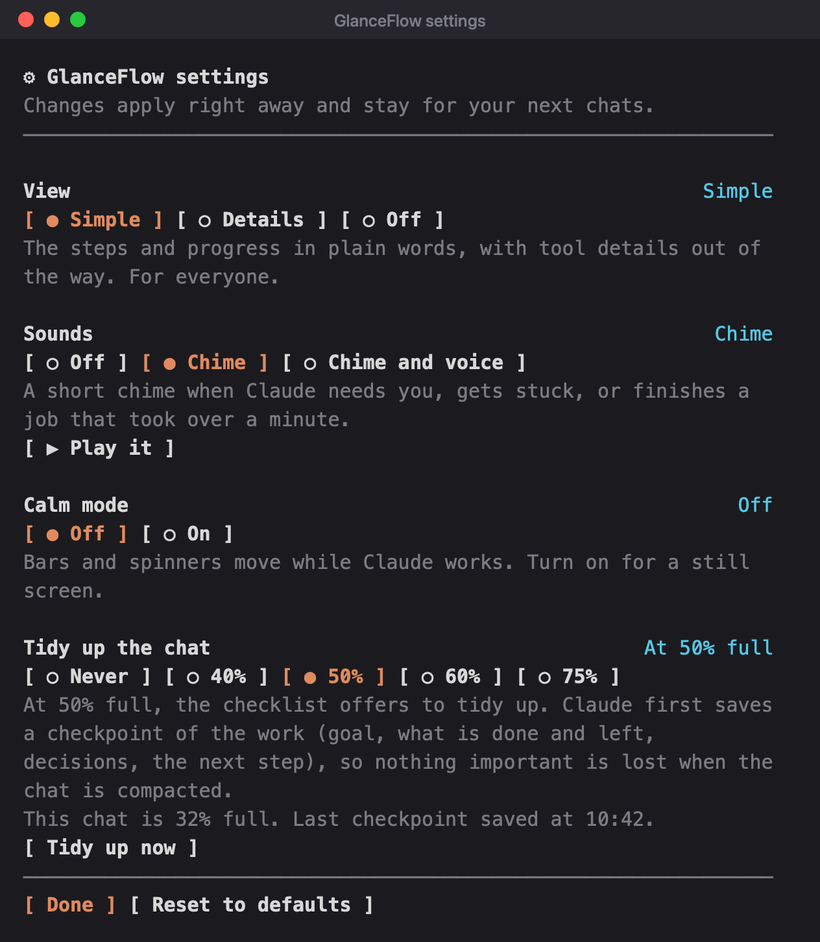
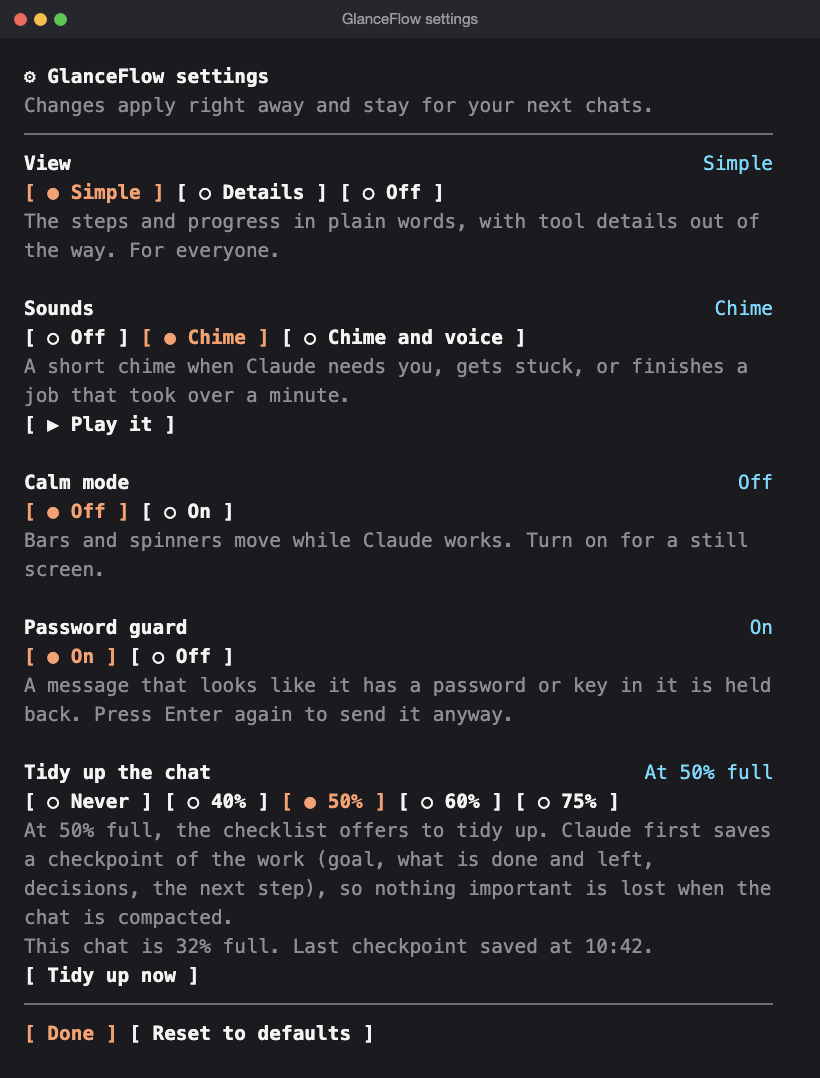
GlanceFlow 0.12.2: the password guard stops fewer ordinary messages
- A credential name now has to end at the keyword or a separator, so "Author:", "tokens:"
  and "authentication:" are not names; a plain word after "auth:" or "OAuth:" is a setting.
- "PIN:" needs digits after it, and a bare "κωδικός" (code) needs more than letters.
- Real passwords, keys and tokens are still held back and masked. Tests for both.
- The Settings screenshot shows the Password guard row.

diff --git a/glanceflow/hooks/privacy.ts b/glanceflow/hooks/privacy.ts
@@ -18,13 +18,28 @@ const SECRET_PATTERNS = [
   /-----BEGIN [A-Z ]*PRIVATE KEY-----[\s\S]*?(?:-----END [A-Z ]*PRIVATE KEY-----|$)/g,
 ]
 
-// NAME=value or "name": "value" where the name looks like a credential
+// NAME=value or "name": "value" where the name looks like a credential.
+// The keyword ends the name or meets a separator, so "author:" and "tokens:" are not credentials.
 const ASSIGNMENT =
-  /\b([A-Za-z0-9_.-]*(?:API[_-]?KEY|SECRET|TOKEN|PASSWORD|PASSWD|PRIVATE[_-]?KEY|ACCESS[_-]?KEY|CLIENT[_-]?SECRET|AUTH)[A-Za-z0-9_.-]*)(["']?\s*[=:]\s*["']?)([^\s"'`,;}{]{6,})/gi
+  /\b([A-Za-z0-9_.-]*(?:API[_-]?KEY|AUTH[_-]?TOKEN|ACCESS[_-]?TOKEN|CLIENT[_-]?SECRET|PRIVATE[_-]?KEY|ACCESS[_-]?KEY|SECRET|TOKEN|PASSWORD|PASSWD|AUTH)(?:[_.-][A-Za-z0-9_.-]*)?)(["']?\s*[=:]\s*["']?)([^\s"'`,;}{]{6,})/gi
 
 // "my password is X", "ο κωδικός μου είναι X"
 const PHRASE =
   /(?<!\p{L})((?:password|passcode|passphrase|pin|κωδικ[όο]ς(?: πρόσβασης)?|συνθηματικ[όο])(?:\s+(?:μου|is|my))?\s*(?:is|είναι|ειναι|=|:)\s*["']?)([^\s"']{4,})/giu
+
+/** A plain word after "auth:" or "OAuth:" is a setting; a key has a digit, a symbol or length. */
+const isCredential = (name: string, value: string) =>
+  /pass|secret/i.test(name) || /[^\p{L}_-]/u.test(value) || value.length >= 16
+
+/** "PIN: optional" and "ο κωδικός: γράψε" are prose: a PIN is digits, a bare κωδικός (code) needs more than letters. */
+const isPhraseSecret = (head: string, value: string) => {
+  const word = head.toLowerCase()
+  if (/^pin(?!\p{L})/u.test(word)) return /^\d{4,}$/.test(value)
+  if (/^κωδικ/u.test(word) && !/πρόσβασης|μου/u.test(word)) return /[^\p{L}]/u.test(value)
+  return true
+}
+
+const matches = (re: RegExp, text: string) => [...text.matchAll(new RegExp(re.source, re.flags))]
 
 const CARD = /(?<![\w-])(?:4\d{3}|5[1-5]\d{2}|2[2-7]\d{2}|3[47]\d{2}|6(?:011|5\d{2}))(?:[ -]?\d{2,4}){3,4}(?![\w-])/g
 const IBAN = /\b[A-Z]{2}\d{2}(?: ?[A-Z0-9]{4}){3,7}(?: ?[A-Z0-9]{1,3})?\b/g
@@ -54,8 +69,8 @@ function isCard(match: string): boolean {
 export function findSecrets(text: string): string[] {
   const kinds = new Set<string>()
   if (SECRET_PATTERNS.some(re => new RegExp(re.source, re.flags).test(text))) kinds.add('a key or token')
-  if (new RegExp(ASSIGNMENT.source, ASSIGNMENT.flags).test(text)) kinds.add('a password or key')
-  if (new RegExp(PHRASE.source, PHRASE.flags).test(text)) kinds.add('a password')
+  if (matches(ASSIGNMENT, text).some(m => isCredential(m[1]!, m[3]!))) kinds.add('a password or key')
+  if (matches(PHRASE, text).some(m => isPhraseSecret(m[1]!, m[2]!))) kinds.add('a password')
   if ((text.match(CARD) ?? []).some(isCard)) kinds.add('a card number')
   if (new RegExp(IBAN.source, IBAN.flags).test(text)) kinds.add('a bank account number')
 
@@ -66,8 +81,10 @@ export function findSecrets(text: string): string[] {
 export function maskPrivate(text: string): string {
   let out = text
   for (const re of SECRET_PATTERNS) out = out.replace(re, DOTS)
-  out = out.replace(ASSIGNMENT, (_, name: string, sep: string) => name + sep + DOTS)
-  out = out.replace(PHRASE, (_, head: string) => head + DOTS)
+  out = out.replace(ASSIGNMENT, (match, name: string, sep: string, value: string) =>
+    isCredential(name, value) ? name + sep + DOTS : match,
+  )
+  out = out.replace(PHRASE, (match, head: string, value: string) => (isPhraseSecret(head, value) ? head + DOTS : match))
   out = out.replace(CARD, match => (isCard(match) ? '•••• •••• •••• ••••' : match))
   out = out.replace(IBAN, '•••')
   out = out.replace(EMAIL, '•••@•••')

diff --git a/glanceflow/tests/glance.test.ts b/glanceflow/tests/glance.test.ts
@@ -205,6 +205,25 @@ describe('privacy', () => {
     expect(findSecrets('Order 1234 5678 is late')).toEqual([])
   })
 
+  test('everyday words that sound like credentials are not held back', () => {
+    for (const text of [
+      'Author: Antreas Stirmpou',
+      'OAuth: enabled for the login page',
+      'tokens: 128kcached in Details',
+      'auth: required for /api routes',
+      'PIN: optional for now',
+      'set GLANCE_AUTH_MODE: simple',
+      'Δες το authentication: fallback',
+      'Ο κωδικός: γράψε τον καθαρά',
+    ]) {
+      expect(findSecrets(text)).toEqual([])
+      expect(maskPrivate(text)).toBe(text)
+    }
+    expect(findSecrets(`${['DB', 'PASSWORD'].join('_')}=letmein`)).toContain('a password or key')
+    expect(findSecrets(`${['AUTH', 'TOKEN'].join('_')}: ${['abc', '123', 'def'].join('')}`)).toContain('a password or key')
+    expect(findSecrets('pin: 4821')).toContain('a password')
+  })
+
   test('the screen hides emails, phones and keys; names drop them', () => {
     const masked = maskPrivate(`mail jane@example.com or call 555-123-4567, key ${fakeKey(22)}`)
     expect(masked).not.toContain('jane@example.com')

diff --git a/README.md b/README.md
@@ -80,7 +80,7 @@ Under the checklist, **‖ Pause** stops Claude while it works, and **▶ Contin
 
 **⚙ Settings** under the checklist (or `/glanceflow settings`) puts every choice in one panel. Each shows what is picked and a line on what that choice does: the view (Simple, Details or Off), sounds (with ▶ Play it to hear them), calm mode, the password guard, and when to tidy up the chat (never, or at 40, 50, 60 or 75% full), with a **Tidy up now** button. Changes apply right away and stay for your next chats.
 
-![The settings panel: view, sounds and calm mode](docs/glanceflow-settings.png)
+![The settings panel: view, sounds, calm mode, password guard and when to tidy up](docs/glanceflow-settings.png)
 
 ## History for a retro
 
